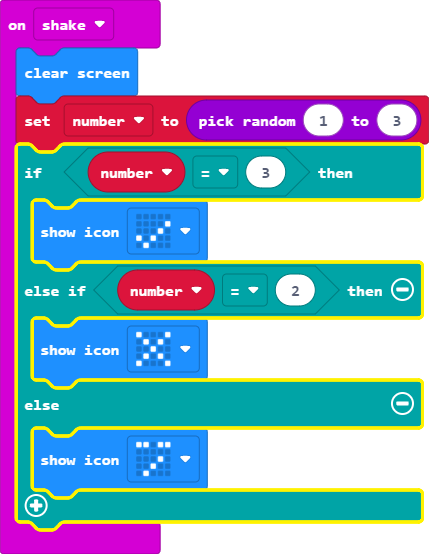
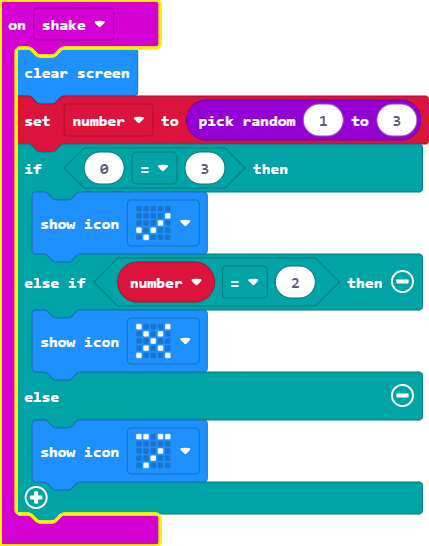
Update main.blocks, main.ts

Changed region(s): [[0.0, 0.0, 1.0, 1.0]]

diff --git a/main.ts b/main.ts
@@ -2,7 +2,7 @@ let number = 0
 input.onGesture(Gesture.Shake, function () {
     basic.clearScreen()
     number = randint(1, 3)
-    if (number == 3) {
+    if ((0 as any) == (3 as any)) {
         basic.showIcon(IconNames.Yes)
     } else if (number == 2) {
         basic.showIcon(IconNames.No)
